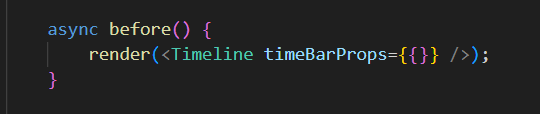
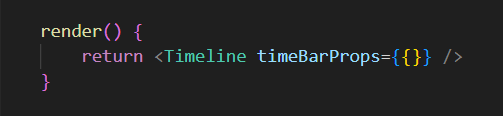
update tad

diff --git a/demo-app/src/testsAreDemo/TimeBarTad.tsx b/demo-app/src/testsAreDemo/TimeBarTad.tsx
@@ -1,32 +1,43 @@
 import { Scenario, render } from "@famiprog-foundation/tests-are-demo";
 import { Main } from "../stories/basic/Basic.stories";
+import { DayTimeUnit, HourTimeUnit, MinuteTimeUnit, TimeBarProps, Timeline } from "@famiprog-foundation/react-gantt";
 
 export class TimeBarTad {
 
-    async before() {
-        render(<Main timeBarProps={{}} />)
+    render() {
+        return <Timeline timeBarProps={{
+             topTimeUnits: [
+                new DayTimeUnit({ multiple: 10, timeFormat: "MMM Do YY" }),
+                new HourTimeUnit({ timeFormat: 'h:mm' })
+            ],
+            bottomTimeUnits: [
+                new DayTimeUnit({ timeFormat: "MMM Do YY" }),
+                new MinuteTimeUnit({ multiple: 2, timeFormat: 'h:mm' }),
+                new MinuteTimeUnit({ multiple: 4, timeFormat: 'h:mm' })
+            ]
+        }} />
     }
 
     /**
      * The `TimeBar` component displays time intervals across two distinct header rows (top and bottom).
-     * * Note: The 2nd row `always` has a smaller time unit (interval) than the top row
+     * 
+     * **Note**: The 2nd row `always` has a smaller time unit (interval) than the top row.
      * 
      * @img timebar.png
      * 
-     * ## Available Time Units
+     * ## Available Time Units:
      * 
      * @img default.png
      * 
-     * ## Default Activation
-     * By default, both rows automatically calculate and select the optimal time unit based on the current view zoom level
+     * ## Default Activation:
+     * By default, both rows automatically calculate and select the optimal time unit based on the current view zoom level.
      *
-     *  @img activate.png
+     * @img activate.png
      * 
      * ## Customization:
-     * Can explicitly configure the time units, formatting, and multipliers for both the top and bottom rows using `timeBarProps`
+     * Can explicitly configure the time units, formatting, and multipliers for both the top and bottom rows using `timeBarProps`.
      *
      * @img customize.png
-     * 
      */
     @Scenario()
     async _quickInstructions() {

diff --git a/demo-app/featurebook/testsAreDemo/TimeBarTad.md b/demo-app/featurebook/testsAreDemo/TimeBarTad.md
@@ -16,23 +16,23 @@ Go to [Featurebook > Index](../FEATUREBOOK.md)
 <tr><td>
 
 The `TimeBar` component displays time intervals across two distinct header rows (top and bottom).
-* Note: The 2nd row `always` has a smaller time unit (interval) than the top row
+
+**Note**: The 2nd row `always` has a smaller time unit (interval) than the top row.
 
 ![timebar.png](../../featurebook-img/testsAreDemo/TimeBarTad/_quickInstructions/timebar.png)
 
-## Available Time Units
+## Available Time Units:
 
 ![default.png](../../featurebook-img/testsAreDemo/TimeBarTad/_quickInstructions/default.png)
 
-## Default Activation
-By default, both rows automatically calculate and select the optimal time unit based on the current view zoom level
+## Default Activation:
+By default, both rows automatically calculate and select the optimal time unit based on the current view zoom level.
 
- ![activate.png](../../featurebook-img/testsAreDemo/TimeBarTad/_quickInstructions/activate.png)
+![activate.png](../../featurebook-img/testsAreDemo/TimeBarTad/_quickInstructions/activate.png)
 
 ## Customization:
-Can explicitly configure the time units, formatting, and multipliers for both the top and bottom rows using `timeBarProps`
+Can explicitly configure the time units, formatting, and multipliers for both the top and bottom rows using `timeBarProps`.
 
 ![customize.png](../../featurebook-img/testsAreDemo/TimeBarTad/_quickInstructions/customize.png)
-
 </td></tr>
 </table>
